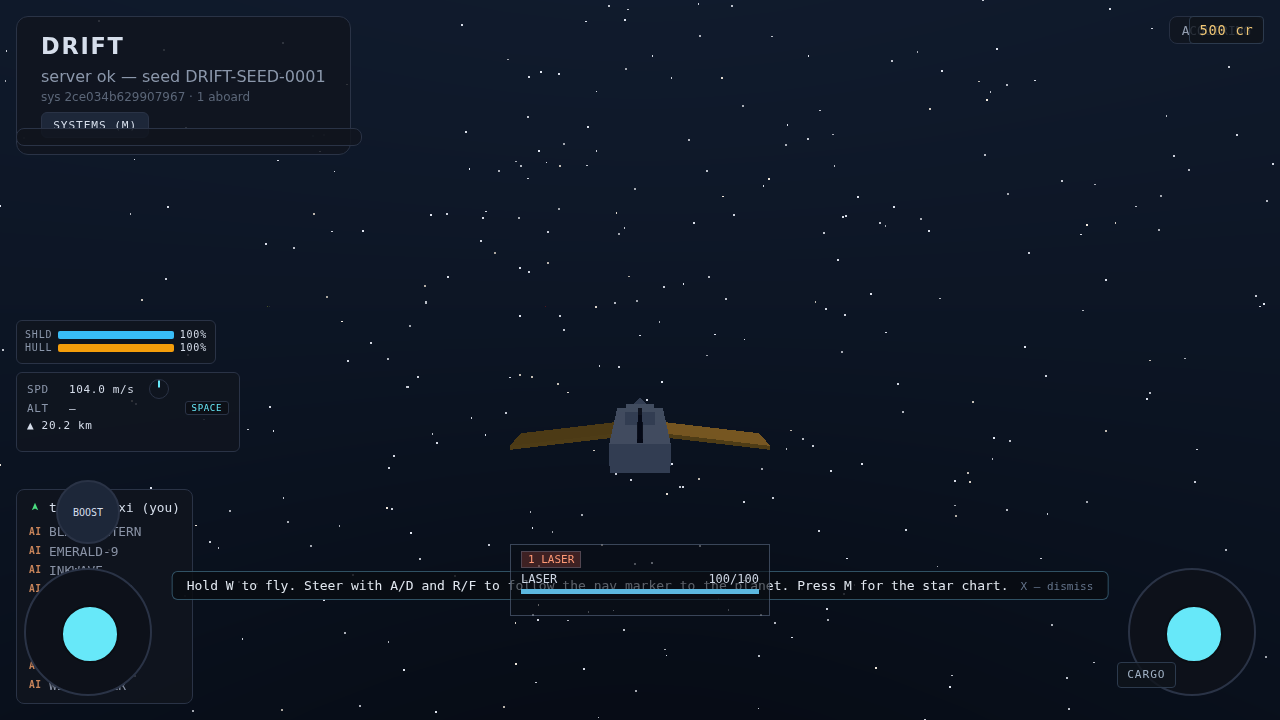
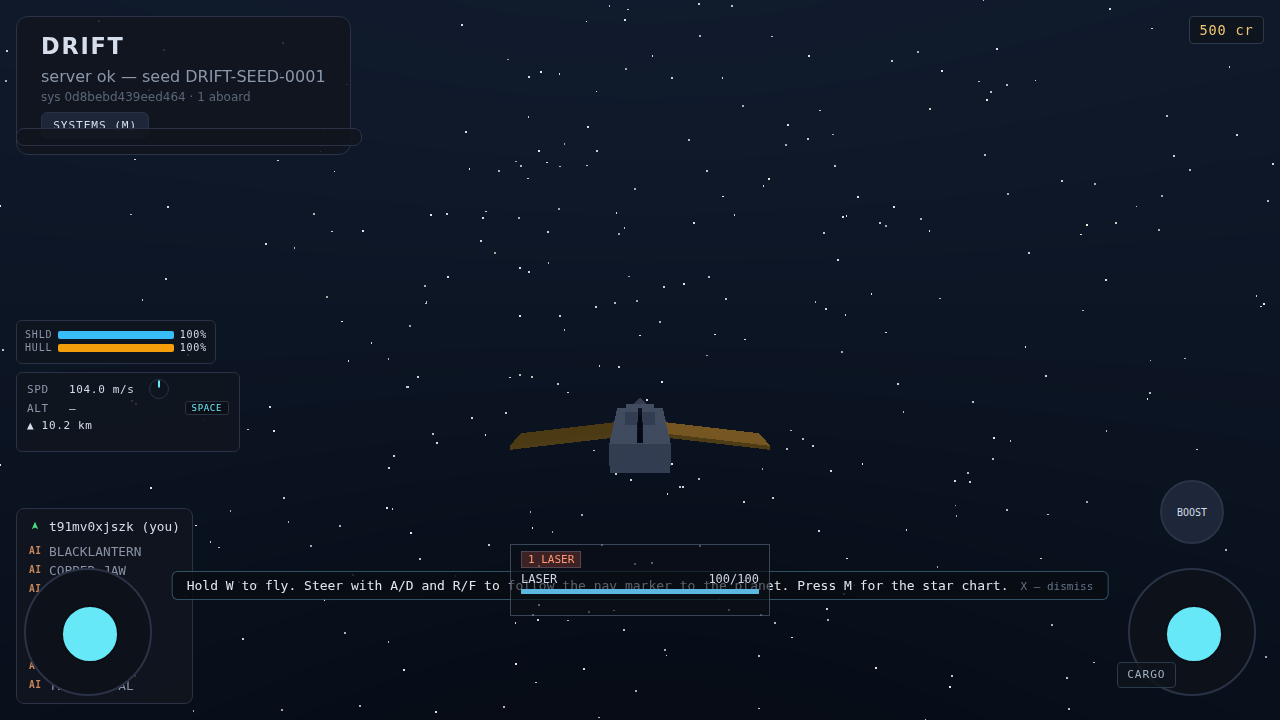
feat(TASK-91): wire touch into flight (space + atmosphere): sticks + VTOL/boost

Changed region(s): [[0.0312, 0.6722, 0.1562, 0.7944], [0.9062, 0.6722, 0.9688, 0.7639], [0.0625, 0.1222, 0.1562, 0.1528]]

diff --git a/.ralph/logs/LOG.md b/.ralph/logs/LOG.md
@@ -3,8 +3,11 @@
 `Current Status`
 =================
 **Last Updated:** 2026-10-09
-**Tasks Completed:** 106
+**Tasks Completed:** 107
 **Current Task:** none
+
+### 2026-10-09 — TASK-91: Wire touch into flight (space + atmosphere): sticks + VTOL/boost (complete)
+The first real gameplay wiring of the touch feature (PRD §4.13, SC-6) — dual sticks + per-regime button rendered at the screen corners and fed into the shared `TouchInputSource` from TASK-89, so the EXISTING ship prediction loop flies the ship with zero further changes (touch → channels → virtual keys → merged set → `readSchemeInput` → wire 'input' frame → server integrates). **Step 1:** new `app/src/client/ui/touch/TouchControls.tsx` — the flight layout container: `enabled: false` → renders nothing + clears all channels (unmount cleanup); `regime === 'surface'` → renders nothing + clears (TASK-93 owns the on-foot corners); LEFT stick `onChange({x,y}) → setChannel({ thrust: y, yaw: x })`, RIGHT stick `→ { pitch: y, roll: x }` (up-positive, per the settled dual-stick layout); VTOL `TouchButton` ONLY in atmosphere, BOOST ONLY in space (mirroring the `ControlScheme` — the deliberate key collisions rely on this); a regime-flip effect clears the outgoing regime's button channel (an unmounted button never fires onRelease) guarded by a `prevRegimeRef` so the initial mount writes nothing; corner positioning `CORNER = 24` px + `env(safe-area-inset-*)` (the mobile-margin test), sticks bottom-left/bottom-right, the per-regime button above the RIGHT stick (right edge — the left edge carries the ship HUD + player list). `app/src/client/touch-debug.ts` — dev-only hook (same pattern as interact-debug.ts): `installTouchDebug()` → `window.__TOUCH__` with a live `channels` getter + `setChannel`/`clear` passthrough (lazily-bound source; no-op in production behind `import.meta.env.DEV`) so e2e drives the channels deterministically. `TouchInputSource.snapshot()` (active-channels copy) for the hook + tests; `joystickVector` now canonicalizes zero components to +0 (a horizontal drag passed `-0` through the y-flip — `Object.is(-0, 0)` is false, same rule as `flip`). `main.tsx`: `touchEnabled = navigator.maxTouchPoints > 0` (v1 gate; TASK-94 replaces with the real flag), `bindTouchDebug` in an effect, `<TouchControls enabled regime source={touchRef.current} />` next to `<HudRoot>` — ship loop / schemes / wire mapping untouched. **Tests:** `TouchControls.test.tsx` (14: per-regime layout, disabled/surface render nothing, stick→channel mapping up-positive, button press/release, channel hygiene on regime flip / disable / unmount, touchDebug passthrough + live snapshot) + `touch.ts` snapshot test. **Step 2 (e2e, green 33.3 s):** new `tests/e2e/touch-flight.spec.ts` — touch-emulated context (`hasTouch: true` → `maxTouchPoints = 1`), REST-only claim of a player whose home system has a landable atmospheric planet; (1) space layout (both sticks + BOOST label, no VTOL), (2) `__TOUCH__.setChannel({thrust:1})` → server speed 8 → 96 u/s rising, (3) deep-space teleport + `{thrust:1,boost:1}` → cruise-top 364 u/s, release → ≤ 121, (4) yaw=+1 2 s → dot(forward, initialRight) = 0.968 > 0.2 (TASK-80 convention — nose turns RIGHT on screen), (5) teleport into the home planet's band → wire regime 'atmosphere' + VTOL button visible, (6) `vtol:1` → server vel.y 12.7 u/s, altitude 393 → 408. Screenshot `.ralph/screenshots/TASK-91-1.png` LOOKED AT: space view, sticks bottom-left/bottom-right, BOOST above the right stick, ship HUD SHLD/HULL/SPD panel clear (SPD 104 m/s, SPACE tag). **Verification:** `npx tsc --noEmit` clean; eslint + prettier clean; full `npm run test` green — 196 files, 1819 passed / 1 skipped; e2e spec green. Commits: WIP `5862d15` (all code + tests) + this close-out (reposition e2e re-run + bookkeeping).
 
 ### 2026-10-09 — TASK-90: Touch UI components — joystick + button (pointer, deadzone, a11y) (complete)
 The reusable touch widgets (PRD §4.13, SC-6) — the ONLY new UI in the touch feature, kept fully game-agnostic (no virtual-key logic; TASK-91-94 wire them via onChange/onPress/onRelease). **Step 1 (tests first):** new `app/src/client/ui/touch/` — `TouchJoystick.tsx`: pure `joystickVector(dx, dy, radius, deadzone)` (radius-clamped, deadzone-gated, y up-positive — matches the keyboard convention W=+thrust/F=nose-up) + the component: circular base + knob (pure divs/CSS, theme tokens only), Pointer Events with `setPointerCapture` on the base so off-element drags keep tracking, deadzone (default 0.15 × radius) emits {0,0}, release/cancel emit {0,0} + knob reset, knob centre clamped to radius−knobRadius so the disc stays inside the base, knob 60 ms transform transition gated by `useReducedMotion`, `touchAction: 'none'`, `role="slider"` + `aria-label` + `aria-valuenow/min/max` + `aria-valuetext` (the TASK-54 a11y suite sees a named control). **Step 2:** `TouchButton.tsx`: pointerdown → `onPress`, pointerup/pointercancel → `onRelease` (long holds stay pressed until release — the FIRE pattern), same capture pattern, a hit-wrapper div enforces the ≥ 44 px min touch target even for small visuals (hit = max(size, minTouch), visual disc centered inside), `aria-label` (visible text doubles as the name) + `aria-pressed` only when controlled, disabled is inert (handler guard + `pointerEvents: 'none'`), pressed = accent border (contrast-safe — no new text/background pairs, theme tokens only). **Tests (26, all green):** joystick — pure-vector suite (zero/deadzone/full-radius/clamp/custom-deadzone) + synthetic PointerEvent drives (right edge → (1,0), up → (0,1) up-positive, 45° down-left rim → (−√½,−√½), deadzone drag → {0,0}, off-element drag clamps to the rim (capture), release + pointercancel → {0,0} + knob reset to `translate(0px, 0px)`, pre-press moves ignored, disabled inert, knob tracks + clamps); button — press/release fire once, long hold with moves fires nothing until release, pointercancel releases, stray pointerup (no down) fires nothing, disabled inert, aria-label + visible text, aria-pressed only when controlled, 32 px visual → 44 px hit wrapper (32 px face), 80 px visual → 80 px hit, icon renders. **Verification:** `npx tsc --noEmit` clean; `npx vitest run src/client/ui/touch/` 26/26; full `npm run test` green — 195 files, 1804 passed / 1 skipped; eslint + prettier clean. No Playwright smoke: the components are deliberately INERT (unmounted until TASK-91 positions them at the screen corners) — nothing to smoke in the live app, and the RTL synthetic-pointer tests fully cover the behaviour per the spec's skip rule. Screenshot n/a (not mounted in the app).
